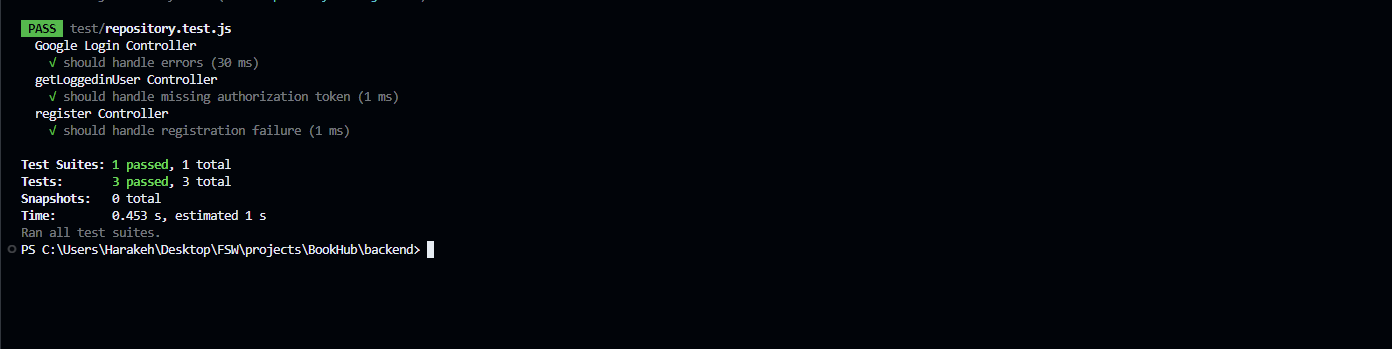
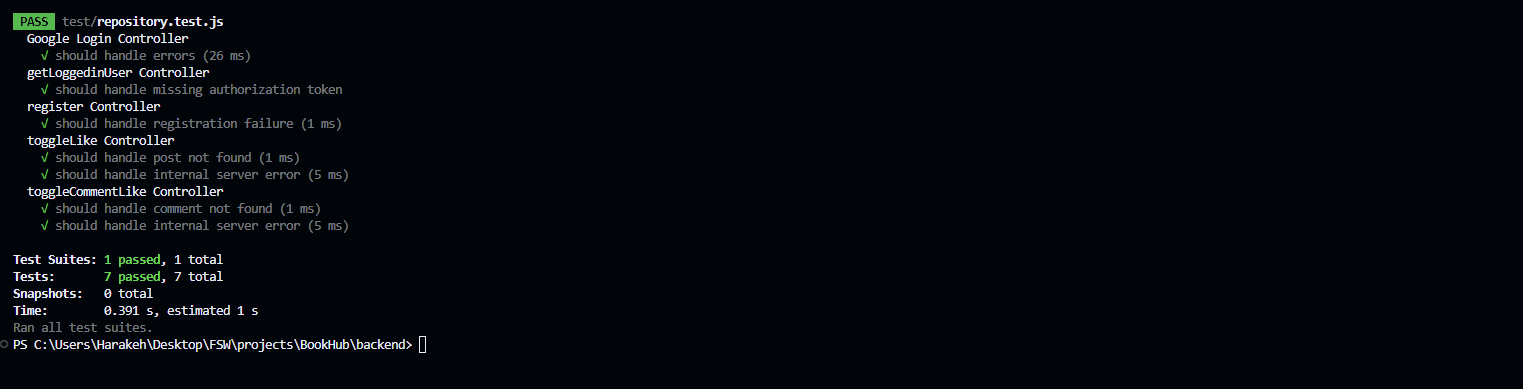
unit testing <> added more unit test

Changed region(s): [[0.0, 0.0287, 0.278, 0.6304], [0.0, 0.659, 0.3089, 0.9169]]

diff --git a/backend/test/repository.test.js b/backend/test/repository.test.js
@@ -9,7 +9,7 @@ const {
 
 const { register } = require("../controller/auth");
 
-const { toggleLike } = require("../controller/post");
+const { toggleLike, toggleCommentLike } = require("../controller/post");
 
 const User = require("../models/User");
 const jwt = require("jsonwebtoken");
@@ -137,6 +137,49 @@ describe("toggleLike Controller", () => {
     User.findOne.mockRejectedValueOnce("Database error");
 
     await toggleLike(req, res);
+
+    expect(res.status).toHaveBeenCalledWith(500);
+    expect(res.json).toHaveBeenCalledWith({ message: "Internal server error" });
+  });
+});
+
+describe("toggleCommentLike Controller", () => {
+  it("should handle comment not found", async () => {
+    const userId = "mockUserId";
+    const commentId = "mockCommentId";
+    const req = {
+      user: { id: userId },
+      params: { commentId },
+    };
+    const res = {
+      status: jest.fn(() => res),
+      json: jest.fn(),
+    };
+
+    User.findOne.mockResolvedValueOnce(null);
+
+    await toggleCommentLike(req, res);
+
+    expect(res.status).toHaveBeenCalledWith(404);
+    expect(res.json).toHaveBeenCalledWith({ message: "Comment not found" });
+  });
+
+  it("should handle internal server error", async () => {
+    const userId = "mockUserId";
+    const commentId = "mockCommentId";
+    const req = {
+      user: { id: userId },
+      params: { commentId },
+    };
+    const res = {
+      status: jest.fn(() => res),
+      json: jest.fn(),
+    };
+
+    // Mock User.findOne to throw an error
+    User.findOne.mockRejectedValueOnce("Database error");
+
+    await toggleCommentLike(req, res);
 
     expect(res.status).toHaveBeenCalledWith(500);
     expect(res.json).toHaveBeenCalledWith({ message: "Internal server error" });
